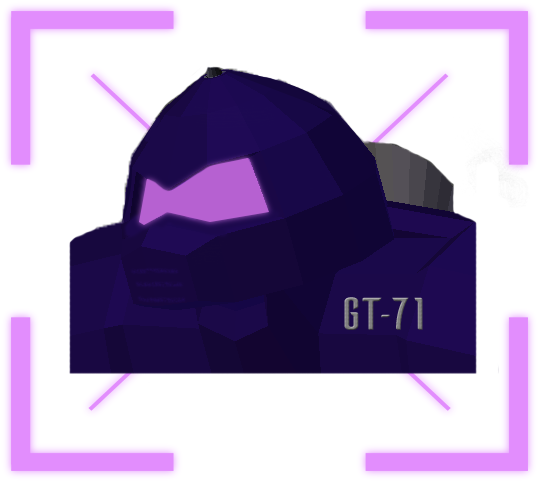
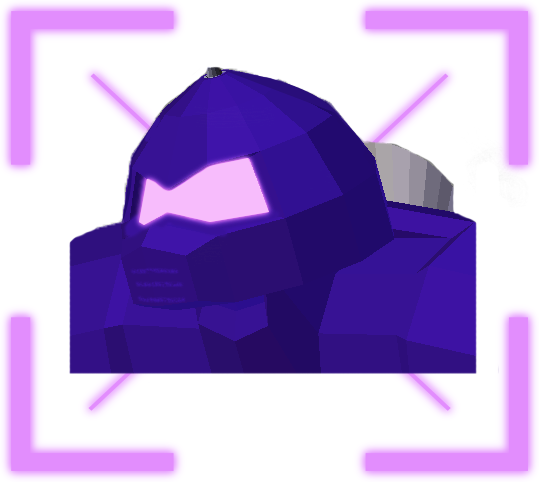
boss is bigger, health bar is smaller and more up

diff --git a/First Game/Game.h b/First Game/Game.h
@@ -586,7 +586,7 @@ public:
 		//boss portrait beside its health bar 
 		mod.push_back(new Model("Models/BOSS/bossPORTRAIT.obj"));
 		GAME::addModel(mod[123]);
-		mod[123]->getTransformer().setPosition(-16.0f, 16.5, 21);
+		mod[123]->getTransformer().setPosition(10.0f, 17.8f, 21.5f);
 		mod[123]->getTransformer().setScale(2.0f, 2.0f, 2.0f);
 		mod[123]->getTransformer().setRotation({ 0, 0, 0 });
 
@@ -633,7 +633,7 @@ public:
 		mod[7]->getTransformer().setScale(3), mod[7]->getTransformer().setPosition(9.5f, 5.34f, 22.5f);
 
 		//Boss Trarrnsforms
-		mod[8]->getTransformer().setScale(1.6f), mod[8]->getTransformer().setPosition(0.0f, 0.0f, 23.0f), mod[8]->getTransformer().setRotation({0.0f, 0.0f, 0.0f});
+		mod[8]->getTransformer().setScale(1.8f), mod[8]->getTransformer().setPosition(0.0f, 0.0f, 23.0f), mod[8]->getTransformer().setRotation({0.0f, 0.0f, 0.0f});
 
 		//Floor Transforms
 		mod[9]->getTransformer().setScale(2.25f, 1.0f, 5.0f), mod[9]->getTransformer().setPosition(0.0f, 0.0f, 5.0f);
@@ -694,12 +694,12 @@ public:
 		}
 
 		//Boss Blood Bar
-		mod[72]->getTransformer().setPosition(mod[8]->getTransformer().getPosition() + Coord3D{13.0f,18.5f,0.0f});
+		mod[72]->getTransformer().setPosition(mod[8]->getTransformer().getPosition() + Coord3D{11.5f,19.5f,0.0f});
 		mod[72]->getTransformer().setRotation(Coord3D(0, 90, 0));
-		mod[72]->getTransformer().setScale(0.4f, 0.4f, 2.5f); //0.8 originally
+		mod[72]->getTransformer().setScale(0.6f, 0.6f, 2.0f); //0.8 originally
 		mod[73]->getTransformer().setPosition(mod[72]->getTransformer().getPosition());
 		mod[73]->getTransformer().setRotation(Coord3D(0, 90, 0));
-		mod[73]->getTransformer().setScale(0.4f, 0.4f, 2.5f);
+		mod[73]->getTransformer().setScale(0.6f, 0.6f, 2.0f);
 
 		//Bullet Circle
 		mod[74]->setColour({255,0,0,150});
@@ -1715,7 +1715,7 @@ public:
 		}
 
 		//Boss health bar calculation
-		mod[72]->getTransformer().setScale(0.8f, 0.8f, 2.5f * (CandyMan->getHealth() / 1000.0f));
+		mod[72]->getTransformer().setScale(0.6f, 0.6f, 2.0f * (CandyMan->getHealth() / 1000.0f)); //0.8,0.8,2.5
 
 		if(youDead)
 		{

diff --git a/First Game/PlayerSelect.h b/First Game/PlayerSelect.h
@@ -94,7 +94,7 @@ public:
 			//mod[10]->getTransformer().setRotation({ 0, 270, 0 });
 
 			mod[6 + a]->getTransformer().setPosition(float(-51 + a * 27.5 + extra), -47, -4);
-			mod[6 + a]->getTransformer().setScale(10, 20, 10);
+			mod[6 + a]->getTransformer().setScale(Coord3D{ 10, 20, 10 });
 			mod[6 + a]->getTransformer().setRotation({ 0, 270, 0 });
 			mod[6 + a]->setToRender(true);
 			GAME::addModel(mod.back()); //6, 7, 8, 9
